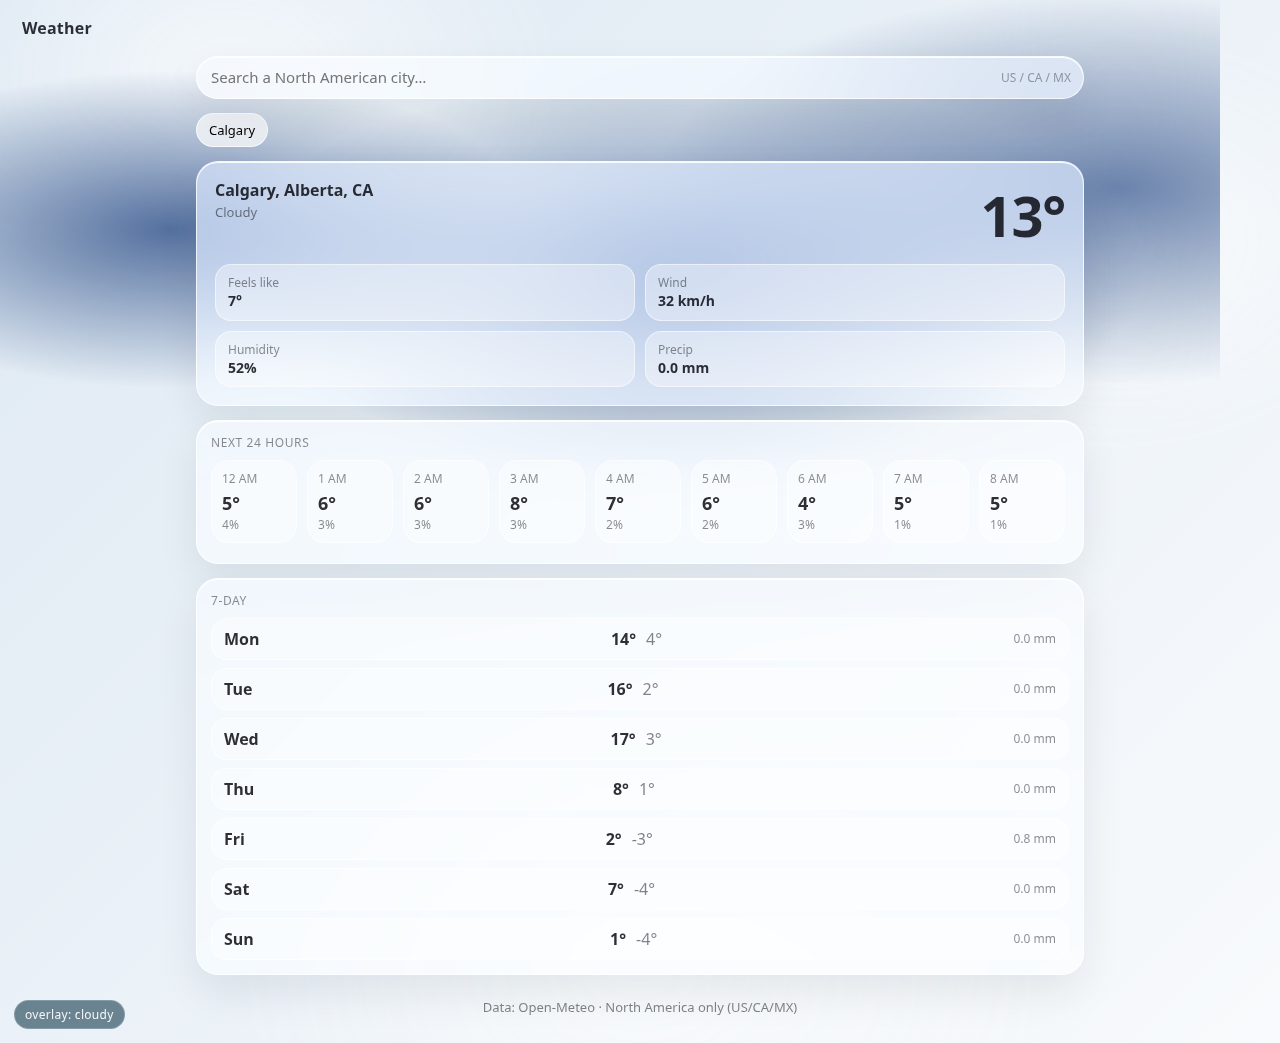
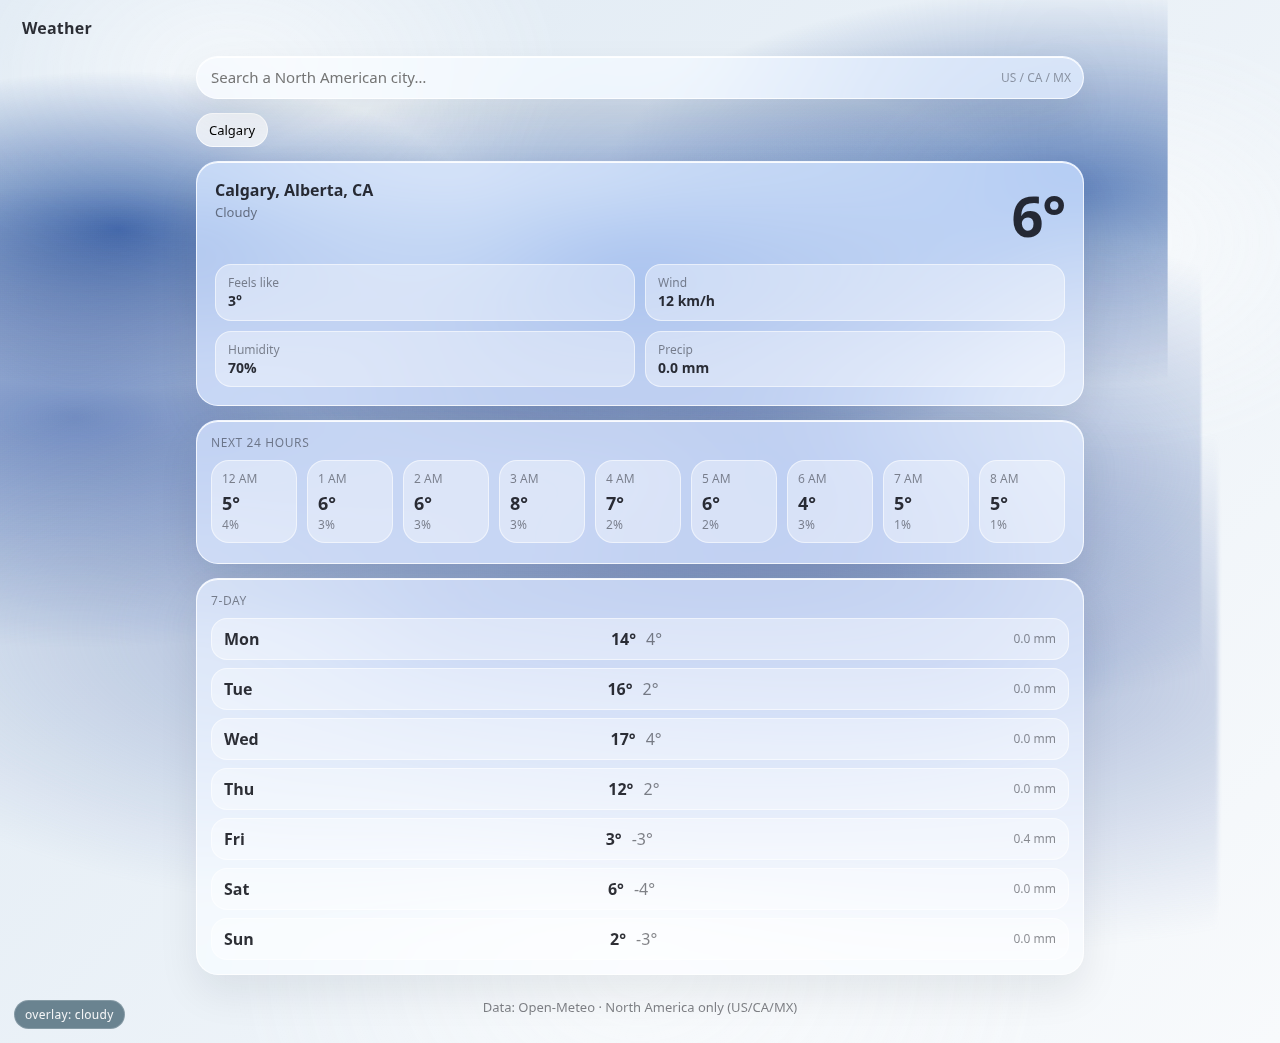
feat: richer multi-layer cloud overlay

diff --git a/src/App.css b/src/App.css
@@ -19,6 +19,7 @@
   opacity: 0.85;
   pointer-events: none;
   transition: opacity 800ms ease;
+  z-index: 0;
 }
 
 /* Cloud/fog/sun overlays (CSS-only so you always see motion) */
@@ -31,6 +32,26 @@
   z-index: 1;
   /* multiply darkens the light bg by the gradient's RGB — always visible on white/light */
   mix-blend-mode: multiply;
+}
+
+/* Additional layers for richer depth */
+.overlay.layer1 { filter: blur(0.4px) saturate(140%); }
+.overlay.layer2 { filter: blur(1.2px) saturate(130%); opacity: 0.85; }
+.overlay.layer3 { filter: blur(2.2px) saturate(120%); opacity: 0.75; }
+
+/* Subtle film grain / texture */
+.overlay.noise {
+  opacity: 0.25;
+  mix-blend-mode: soft-light;
+  background-image:
+    repeating-linear-gradient(0deg, rgba(255,255,255,0.06), rgba(255,255,255,0.06) 1px, transparent 1px, transparent 2px),
+    repeating-linear-gradient(90deg, rgba(0,0,0,0.04), rgba(0,0,0,0.04) 1px, transparent 1px, transparent 2px);
+  animation: noiseMove 6s steps(2, end) infinite;
+}
+
+@keyframes noiseMove {
+  0% { transform: translate(0,0); }
+  100% { transform: translate(12px, -12px); }
 }
 
 /* Debug label when overlay is active */
@@ -70,43 +91,81 @@
 }
 
 /* partly-cloudy: drifting soft clouds (lighter) */
-.app[data-condition='partly-cloudy'] .overlay {
+.app[data-condition='partly-cloudy'] .overlay.layer1 {
   opacity: 1;
   background:
     radial-gradient(520px 230px at 18% 22%, rgba(100, 130, 180, 0.82), transparent 66%),
     radial-gradient(620px 260px at 58% 26%, rgba(100, 130, 180, 0.75), transparent 68%),
     radial-gradient(620px 260px at 92% 18%, rgba(100, 130, 180, 0.70), transparent 68%);
-  animation: clouds 10s linear infinite;
+  animation: cloudsSlow 18s linear infinite;
+}
+
+.app[data-condition='partly-cloudy'] .overlay.layer2 {
+  opacity: 1;
+  background:
+    radial-gradient(720px 280px at 10% 35%, rgba(130, 160, 200, 0.65), transparent 70%),
+    radial-gradient(820px 320px at 70% 40%, rgba(130, 160, 200, 0.55), transparent 72%);
+  animation: cloudsFast 12s linear infinite reverse;
 }
 
 /* cloudy: drifting clouds (darker/more obvious) */
-.app[data-condition='cloudy'] .overlay {
+.app[data-condition='cloudy'] .overlay.layer1 {
   opacity: 1;
   background:
     radial-gradient(560px 240px at 18% 22%, rgba(75, 105, 155, 0.90), transparent 66%),
     radial-gradient(680px 290px at 58% 26%, rgba(75, 105, 155, 0.85), transparent 68%),
     radial-gradient(680px 290px at 92% 18%, rgba(75, 105, 155, 0.80), transparent 68%);
-  animation: clouds 10s linear infinite;
+  animation: cloudsSlow 20s linear infinite;
 }
 
-@keyframes clouds {
-  0% {
-    transform: translateX(-10%);
-  }
-  100% {
-    transform: translateX(10%);
-  }
+.app[data-condition='cloudy'] .overlay.layer2 {
+  opacity: 1;
+  background:
+    radial-gradient(780px 320px at 12% 40%, rgba(95, 120, 170, 0.75), transparent 72%),
+    radial-gradient(860px 360px at 68% 45%, rgba(95, 120, 170, 0.65), transparent 74%);
+  animation: cloudsFast 14s linear infinite reverse;
+}
+
+.app[data-condition='cloudy'] .overlay.layer3 {
+  opacity: 1;
+  background:
+    radial-gradient(900px 380px at 40% 60%, rgba(120, 140, 185, 0.55), transparent 75%),
+    radial-gradient(860px 360px at 80% 65%, rgba(120, 140, 185, 0.50), transparent 75%);
+  animation: cloudsMicro 28s linear infinite;
+}
+
+@keyframes cloudsSlow {
+  0% { transform: translateX(-12%); }
+  100% { transform: translateX(12%); }
+}
+
+@keyframes cloudsFast {
+  0% { transform: translateX(10%); }
+  100% { transform: translateX(-10%); }
+}
+
+@keyframes cloudsMicro {
+  0% { transform: translateX(-6%) translateY(0); }
+  50% { transform: translateX(0) translateY(2%); }
+  100% { transform: translateX(6%) translateY(0); }
 }
 
 /* fog: gentle moving mist (more contrast) */
-.app[data-condition='fog'] .overlay {
+.app[data-condition='fog'] .overlay.layer1 {
   opacity: 1;
   background:
     radial-gradient(760px 420px at 30% 40%, rgba(130, 150, 175, 0.88), transparent 72%),
-    radial-gradient(860px 460px at 70% 55%, rgba(130, 150, 175, 0.82), transparent 74%),
-    radial-gradient(820px 400px at 55% 70%, rgba(130, 150, 175, 0.75), transparent 72%);
+    radial-gradient(860px 460px at 70% 55%, rgba(130, 150, 175, 0.82), transparent 74%);
   filter: blur(6px);
-  animation: mist 12s ease-in-out infinite;
+  animation: mist 14s ease-in-out infinite;
+}
+
+.app[data-condition='fog'] .overlay.layer2 {
+  opacity: 1;
+  background:
+    radial-gradient(820px 400px at 55% 70%, rgba(130, 150, 175, 0.75), transparent 72%);
+  filter: blur(8px);
+  animation: mist 18s ease-in-out infinite reverse;
 }
 
 @keyframes mist {

diff --git a/src/App.tsx b/src/App.tsx
@@ -62,7 +62,10 @@ export default function App() {
       } as React.CSSProperties}
     >
       <div className="bg" aria-hidden="true" />
-      <div className="overlay" aria-hidden="true" />
+      <div className="overlay layer1" aria-hidden="true" />
+      <div className="overlay layer2" aria-hidden="true" />
+      <div className="overlay layer3" aria-hidden="true" />
+      <div className="overlay noise" aria-hidden="true" />
       {overlayDebug && <div className="overlayDebug">overlay: {condition}</div>}
 
       <WeatherScene condition={condition} windKmh={wind} />
